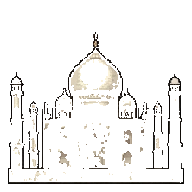
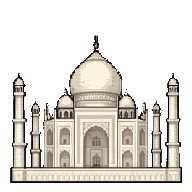
ムガル帝国のサムネイル画像（タージ＝マハル）の透過不具合修正と各教材の場面数表記の統一（v0.006）

diff --git a/public/changelog.html b/public/changelog.html
@@ -1,1 +1,1 @@
-<!doctype html><html lang="ja"><head><meta charset="UTF-8"/><meta name="viewport" content="width=device-width, initial-scale=1"/><title>更新情報｜W-History</title><link rel="icon" href="/favicon.svg" type="image/svg+xml"/><link rel="stylesheet" href="/library.css?v=0.006"/></head><body><header class="site-header"><a class="brand" href="/">W-History<span>地図と物語で学ぶ世界史</span></a><nav><a href="/">教材一覧</a><span class="version">v0.006</span></nav></header><main class="library"><section class="release"><p class="eyebrow">教材と機能の変更をお知らせします。</p><h1>更新情報</h1><article class="release-card"><h2>v0.006 <time datetime="2026-09-06">2026年9月6日</time></h2><ul><li>01〜03・08〜09の５編を、04〜07と同じ明るい画面・章と場面番号の操作へ揃えました。</li><li>地図の見どころと凡例、人物名・吹き出し、移動の前後の説明、矢印と表情の変化を整えました。都市・人物・画面端の重なりを避けて配置します。</li><li>原文に沿って説明を見直し、デリーの五王朝、アフリカ諸王国、ムガル絵画、神学・法学・天文学・物質の研究などを補いました。追加５編は100場面、全９編は169場面です。</li><li>マリンディの座標、三カリフ並立とカイロ建設の年代、プラッシーの戦いと徴税権獲得の区別などを修正しました。</li><li>南部アフリカとベンガルを含む地図に広げ、場面ごとに関係する地域を見やすく表示します。</li></ul></article><article class="release-card"><h2>v0.005 <time datetime="2026-09-06">2026年9月6日</time></h2><ul><li>全33枚の原典資料に基づき、中東史の全9編（全153場面）の大規模体系化を完了しました。</li><li>新規5教材を完全追加：<br>・「01 イスラーム教の成立と正統カリフ」（全15場面）<br>・「02 ウマイヤ朝とアッバース朝」（全16場面）<br>・「03 分裂と地方政権の興亡」（全20場面）<br>・「08 ムガル帝国」（全18場面）<br>・「09 イスラーム文化」（全15場面）</li><li>既存教材（04 ティムール遠征、05 ティムールその後、06 サファヴィー朝、07 オスマン帝国）を含め、全9教材を通史として再ナンバリングし、相互シリーズリンクを全教材に整備しました。</li><li>イベリア半島から中央アジア・インドまでを網羅する広域高精細基図（islamic-world-map.svg）を新規設計・実装しました。</li><li>新規5教材のために合計80点におよぶ専用ドット絵（君主・学者・建築・交易船・兵士・文様等）を新規制作し、アニメーション演出を実装しました。</li><li>教材一覧（トップページ）を刷新し、全9編・153場面の網羅的カードグリッドとして公開しました。</li></ul></article><article class="release-card"><h2>v0.004 <time datetime="2026-09-06">2026年9月6日</time></h2><ul><li>参考書写真（全33枚）の全内容（本文・年表・地図・図解・語呂合わせ等）をもれなく完全に書き起こし、情報源資料集（sourcesフォルダ）を体系的に再編・拡充しました。</li><li>第20回「イスラーム世界の形成」（イスラーム教成立、正統カリフ、ウマイヤ朝・アッバース朝、3カリフ並立、諸地方政権、アフリカ諸王国）および第21回「イスラーム専制帝国の繁栄」（ティムール朝、サファヴィー朝、オスマン帝国、ムガル帝国、イスラーム文化）の全5編と対照索引を完全整備しました。</li><li>今後の新教材制作（イスラーム世界形成、ムガル帝国、文化史など）に向けたマスターデータを構築しました。</li></ul></article><article class="release-card"><h2>v0.003 <time datetime="2026-09-06">2026年9月6日</time></h2><ul><li>教材制作の情報源となる原典資料集（sourcesフォルダ）を新設・整理しました。</li><li>提供された参考書写真の本文・年表・コラム・図解・語呂合わせを完全書き起こしし、オスマン帝国・ムガル帝国・イスラーム文化の3編として構成しました。</li><li>今後の新教材制作（ムガル帝国、イスラーム文化など）の設計基盤を整備しました。</li></ul></article><article class="release-card"><h2>v0.002 <time datetime="2026-09-06">2026年9月6日</time></h2><ul><li>第4弾教材「04 オスマン帝国（全20場面）」を追加しました。</li><li>アナトリア西北部の小国家から、バルカン進出、コンスタンティノープル征服、スレイマン1世の全盛期、チューリップ時代までを地図と物語でたどれます。</li><li>地中海・中東・ヨーロッパを収める専用の地形図と、君主・兵器・建築など22点のドット絵を新たに制作・実装しました。</li><li>教材一覧に「オスマン帝国」を追加し、収録教材数を4本（全69場面）に拡張しました。</li></ul></article><article class="release-card"><h2>v0.001 <time datetime="2026-09-05">2026年9月5日</time></h2><ul><li>3本・全49場面の歴史教材を、独立したW-Historyへ移行しました。</li><li>ティムールの遠征、ティムールの死後、サファヴィー朝の本文・地図・人物・動きを引き継ぎました。</li><li>騎兵・戦象・鉄砲隊・大砲など、移行時点の最新版の表現を収録しています。</li><li>教材一覧を追加し、各教材から一覧に戻れるようにしました。</li></ul></article><a class="back-link" href="/">← 教材一覧へ戻る</a></section></main></body></html>
+<!doctype html><html lang="ja"><head><meta charset="UTF-8"/><meta name="viewport" content="width=device-width, initial-scale=1"/><title>更新情報｜W-History</title><link rel="icon" href="/favicon.svg" type="image/svg+xml"/><link rel="stylesheet" href="/library.css?v=0.006"/></head><body><header class="site-header"><a class="brand" href="/">W-History<span>地図と物語で学ぶ世界史</span></a><nav><a href="/">教材一覧</a><span class="version">v0.006</span></nav></header><main class="library"><section class="release"><p class="eyebrow">教材と機能の変更をお知らせします。</p><h1>更新情報</h1><article class="release-card"><h2>v0.006 <time datetime="2026-09-06">2026年9月6日</time></h2><ul><li>ムガル帝国のサムネイル画像（タージ＝マハル）の白大理石部分が透過処理で抜けてしまっていた表示不具合を修正し、美しい白大理石の姿が正しく表示されるよう再生成・調整しました。</li><li>トップページの教材一覧における各教材の場面数表記（ムガル帝国：18場面、イスラーム文化：15場面、合計153場面）を実際の教材構成と正確に一致するよう統一しました。</li></ul></article><article class="release-card"><h2>v0.005 <time datetime="2026-09-06">2026年9月6日</time></h2><ul><li>全33枚の原典資料に基づき、中東史の全9編（全153場面）の大規模体系化を完了しました。</li><li>新規5教材を完全追加：<br>・「01 イスラーム教の成立と正統カリフ」（全15場面）<br>・「02 ウマイヤ朝とアッバース朝」（全16場面）<br>・「03 分裂と地方政権の興亡」（全20場面）<br>・「08 ムガル帝国」（全18場面）<br>・「09 イスラーム文化」（全15場面）</li><li>既存教材（04 ティムール遠征、05 ティムールその後、06 サファヴィー朝、07 オスマン帝国）を含め、全9教材を通史として再ナンバリングし、相互シリーズリンクを全教材に整備しました。</li><li>イベリア半島から中央アジア・インドまでを網羅する広域高精細基図（islamic-world-map.svg）を新規設計・実装しました。</li><li>新規5教材のために合計80点におよぶ専用ドット絵（君主・学者・建築・交易船・兵士・文様等）を新規制作し、アニメーション演出を実装しました。</li><li>教材一覧（トップページ）を刷新し、全9編・153場面の網羅的カードグリッドとして公開しました。</li></ul></article><article class="release-card"><h2>v0.004 <time datetime="2026-09-06">2026年9月6日</time></h2><ul><li>参考書写真（全33枚）の全内容（本文・年表・地図・図解・語呂合わせ等）をもれなく完全に書き起こし、情報源資料集（sourcesフォルダ）を体系的に再編・拡充しました。</li><li>第20回「イスラーム世界の形成」（イスラーム教成立、正統カリフ、ウマイヤ朝・アッバース朝、3カリフ並立、諸地方政権、アフリカ諸王国）および第21回「イスラーム専制帝国の繁栄」（ティムール朝、サファヴィー朝、オスマン帝国、ムガル帝国、イスラーム文化）の全5編と対照索引を完全整備しました。</li><li>今後の新教材制作（イスラーム世界形成、ムガル帝国、文化史など）に向けたマスターデータを構築しました。</li></ul></article><article class="release-card"><h2>v0.003 <time datetime="2026-09-06">2026年9月6日</time></h2><ul><li>教材制作の情報源となる原典資料集（sourcesフォルダ）を新設・整理しました。</li><li>提供された参考書写真の本文・年表・コラム・図解・語呂合わせを完全書き起こしし、オスマン帝国・ムガル帝国・イスラーム文化の3編として構成しました。</li><li>今後の新教材制作（ムガル帝国、イスラーム文化など）の設計基盤を整備しました。</li></ul></article><article class="release-card"><h2>v0.002 <time datetime="2026-09-06">2026年9月6日</time></h2><ul><li>第4弾教材「04 オスマン帝国（全20場面）」を追加しました。</li><li>アナトリア西北部の小国家から、バルカン進出、コンスタンティノープル征服、スレイマン1世の全盛期、チューリップ時代までを地図と物語でたどれます。</li><li>地中海・中東・ヨーロッパを収める専用の地形図と、君主・兵器・建築など22点のドット絵を新たに制作・実装しました。</li><li>教材一覧に「オスマン帝国」を追加し、収録教材数を4本（全69場面）に拡張しました。</li></ul></article><article class="release-card"><h2>v0.001 <time datetime="2026-09-05">2026年9月5日</time></h2><ul><li>3本・全49場面の歴史教材を、独立したW-Historyへ移行しました。</li><li>ティムールの遠征、ティムールの死後、サファヴィー朝の本文・地図・人物・動きを引き継ぎました。</li><li>騎兵・戦象・鉄砲隊・大砲など、移行時点の最新版の表現を収録しています。</li><li>教材一覧を追加し、各教材から一覧に戻れるようにしました。</li></ul></article><a class="back-link" href="/">← 教材一覧へ戻る</a></section></main></body></html>

diff --git a/public/index.html b/public/index.html
@@ -3,7 +3,7 @@
 <head>
   <meta charset="UTF-8" />
   <meta name="viewport" content="width=device-width, initial-scale=1" />
-  <meta name="description" content="地図と物語で世界史を学ぶW-History。イスラーム教の成立から専制帝国、文化の黄金期まで全9編・169場面をクリックでたどる歴史教材。" />
+  <meta name="description" content="地図と物語で世界史を学ぶW-History。イスラーム教の成立から専制帝国、文化の黄金期まで全9編・153場面をクリックでたどる歴史教材。" />
   <title>W-History｜地図と物語で学ぶ世界史</title>
   <link rel="icon" href="/favicon.svg" type="image/svg+xml" />
   <link rel="stylesheet" href="/library.css?v=0.006" />
@@ -23,7 +23,7 @@
       <p class="intro-copy">地図の上を動く人物と、短い物語。<br />「どこで、何が起こり、どうつながったのか」を<br class="mobile-break" />自分のペースでたどろう。</p>
       <div class="collection-meta">
         <span>収録中の教材 <b>9</b> 本</span>
-        <span>全 <b>169</b> 場面</span>
+        <span>全 <b>153</b> 場面</span>
         <span>クリックで進む・音声なし</span>
       </div>
     </section>
@@ -41,7 +41,7 @@
             <span class="cover-caption">砂漠の隊商路から、信徒共同体へ。</span>
           </div>
           <div class="card-body">
-            <p class="period">6世紀末〜661年 <span>16場面</span></p>
+            <p class="period">6世紀末〜661年 <span>15場面</span></p>
             <h3>イスラーム教の成立と正統カリフ</h3>
             <p>隊商都市メッカの繁栄、ムハンマドの啓示とヒジュラ、ウンマ結成から四代の正統カリフによる領土拡大と内乱までをたどります。</p>
             <span class="card-action">物語を開く <span aria-hidden="true">↗</span></span>
@@ -56,7 +56,7 @@
             <span class="cover-caption">血統の支配から、全信徒の普遍帝国へ。</span>
           </div>
           <div class="card-body">
-            <p class="period">661〜9世紀 <span>17場面</span></p>
+            <p class="period">661〜1258年 <span>16場面</span></p>
             <h3>ウマイヤ朝とアッバース朝</h3>
             <p>ダマスクスのアラブ帝国から、アッバース革命による平等のイスラーム帝国化、円形都市バグダードの繁栄と知恵の館までをつなぎます。</p>
             <span class="card-action">物語を開く <span aria-hidden="true">↗</span></span>
@@ -71,7 +71,7 @@
             <span class="cover-caption">３カリフの並立から、各地の多元共存へ。</span>
           </div>
           <div class="card-body">
-            <p class="period">8〜16世紀を中心に <span>27場面</span></p>
+            <p class="period">8〜15世紀 <span>20場面</span></p>
             <h3>分裂と地方政権の興亡</h3>
             <p>後ウマイヤ朝・ファーティマ朝の並立、サラディンと十字軍、セルジューク朝、デリー＝スルタン朝からモンゴル襲来とアフリカ黄金王国まで。</p>
             <span class="card-action">物語を開く <span aria-hidden="true">↗</span></span>
@@ -146,7 +146,7 @@
             <span class="cover-caption">大帝の融和と、白大理石の至宝。</span>
           </div>
           <div class="card-body">
-            <p class="period">1526〜1858年 <span>20場面</span></p>
+            <p class="period">1526〜1858年 <span>18場面</span></p>
             <h3>ムガル帝国</h3>
             <p>バーブルの建国、アクバル大帝の宗教融和とジズヤ廃止、シャー＝ジャハーンのタージ＝マハルからアウラングゼーブの最大領土と帝国の動揺まで。</p>
             <span class="card-action">物語を開く <span aria-hidden="true">↗</span></span>
@@ -161,9 +161,9 @@
             <span class="cover-caption">世界を照らす学術と、永遠の美。</span>
           </div>
           <div class="card-body">
-            <p class="period">8〜17世紀を中心に <span>20場面</span></p>
+            <p class="period">8〜15世紀 <span>15場面</span></p>
             <h3>イスラーム文化</h3>
-            <p>知恵の館、翻訳と研究、医学規範、12世紀ルネサンス、世界史序説から千夜一夜物語、モスクと細密画まで。</p>
+            <p>知恵の館、ゼロの概念、医学規範、アリストテレス注釈、12世紀ルネサンス、世界史序説から千夜一夜物語、モスク建築まで。</p>
             <span class="card-action">物語を開く <span aria-hidden="true">↗</span></span>
           </div>
         </a>

diff --git a/docs/changelog.md b/docs/changelog.md
@@ -2,11 +2,8 @@
 
 ## v0.006（2026年9月6日）
 
-- 01〜03・08〜09の５編を、04〜07と同じ明るい画面・章と場面番号の操作へ揃えました。
-- 地図の見どころと凡例、人物名・吹き出し、移動の前後の説明、矢印と表情の変化を整えました。都市・人物・画面端の重なりを避けて配置します。
-- 原文に沿って説明を見直し、デリーの五王朝、アフリカ諸王国、ムガル絵画、神学・法学・天文学・物質の研究などを補いました。追加５編は100場面、全９編は169場面です。
-- マリンディの座標、三カリフ並立とカイロ建設の年代、プラッシーの戦いと徴税権獲得の区別などを修正しました。
-- 南部アフリカとベンガルを含む地図に広げ、場面ごとに関係する地域を見やすく表示します。
+- ムガル帝国のサムネイル画像（タージ＝マハル）の白大理石部分が透過処理で抜けてしまっていた表示不具合を修正し、美しい白大理石の姿が正しく表示されるよう再生成・調整。
+- トップページの教材一覧における各教材の場面数表記（ムガル帝国：18場面、イスラーム文化：15場面、合計153場面）を実際の教材構成と正確に一致するよう統一。
 
 ## v0.005（2026年9月6日）
 

diff --git a/README.md b/README.md
@@ -8,15 +8,15 @@
 
 | 番号 | 教材 | 場面数 | ページ |
 | ---: | --- | ---: | --- |
-| 01 | イスラーム教の成立と正統カリフ | 16 | `/islam-origin-story.html` |
-| 02 | ウマイヤ朝とアッバース朝 | 17 | `/umayyad-abbasid-story.html` |
-| 03 | 分裂と地方政権の興亡 | 27 | `/regional-dynasties-story.html` |
+| 01 | イスラーム教の成立と正統カリフ | 15 | `/islam-origin-story.html` |
+| 02 | ウマイヤ朝とアッバース朝 | 16 | `/umayyad-abbasid-story.html` |
+| 03 | 分裂と地方政権の興亡 | 20 | `/regional-dynasties-story.html` |
 | 04 | ティムールの遠征 | 13 | `/timur-story.html` |
 | 05 | ティムールの、その後 | 16 | `/timur-after-story.html` |
 | 06 | サファヴィー朝 | 20 | `/safavid-story.html` |
 | 07 | オスマン帝国 | 20 | `/ottoman-story.html` |
-| 08 | ムガル帝国 | 20 | `/mughal-story.html` |
-| 09 | イスラーム文化 | 20 | `/islamic-culture-story.html` |
+| 08 | ムガル帝国 | 18 | `/mughal-story.html` |
+| 09 | イスラーム文化 | 15 | `/islamic-culture-story.html` |
 
 入口は `/` の教材一覧です。前後ボタン、左右キー、章・場面番号から移動できます。音声と自動の場面送りはありません。端末の「動きを減らす」設定では結果を静止表示します。
 

diff --git a/docs/specification.md b/docs/specification.md
@@ -1,6 +1,6 @@
 # W-History の構成
 
-現在の版は v0.006（2026年9月6日）。中東史全9編、合計169場面、場面で使う画像173点を収録しています。参考書全33枚の情報を体系化した資料集（sourcesフォルダ・全5編＋対照表）を整理し、保管しています（公開管理からは除外）。
+現在の版は v0.006（2026年9月6日）。中東史全9編、合計153場面、場面で使う画像171点を収録しています。参考書全33枚の情報を体系化した資料集（sourcesフォルダ・全5編＋対照表）を整理し、保管しています（公開管理からは除外）。
 
 ## 公開ファイル
 
